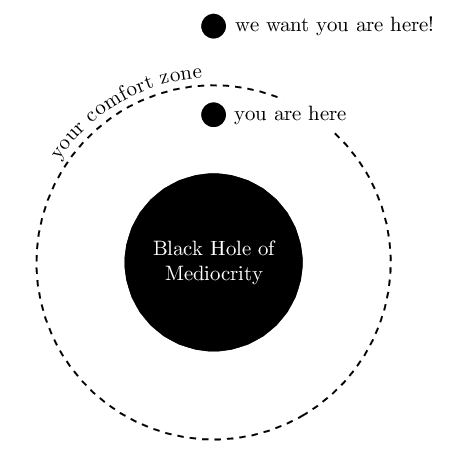
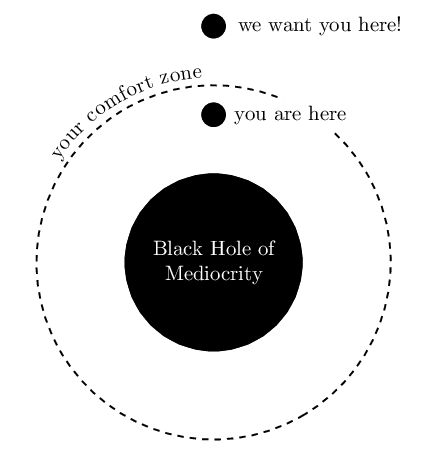
comfort image fix

diff --git a/diagrams/comfort.tex b/diagrams/comfort.tex
@@ -20,7 +20,7 @@ text={your comfort zone},text align=center,reverse path,raise=4pt}]
 (0,0) circle (3.0cm);
 
 \node at (1.3,2.5) [black,fill=white]  {you are here} ;
-\node at (2.05,4) [black,fill=white]  {we want you are here!} ;
+\node at (1.8,4) [black,fill=white]  {we want you here!} ;
 
 \end{tikzpicture}
 %-----------------------------
